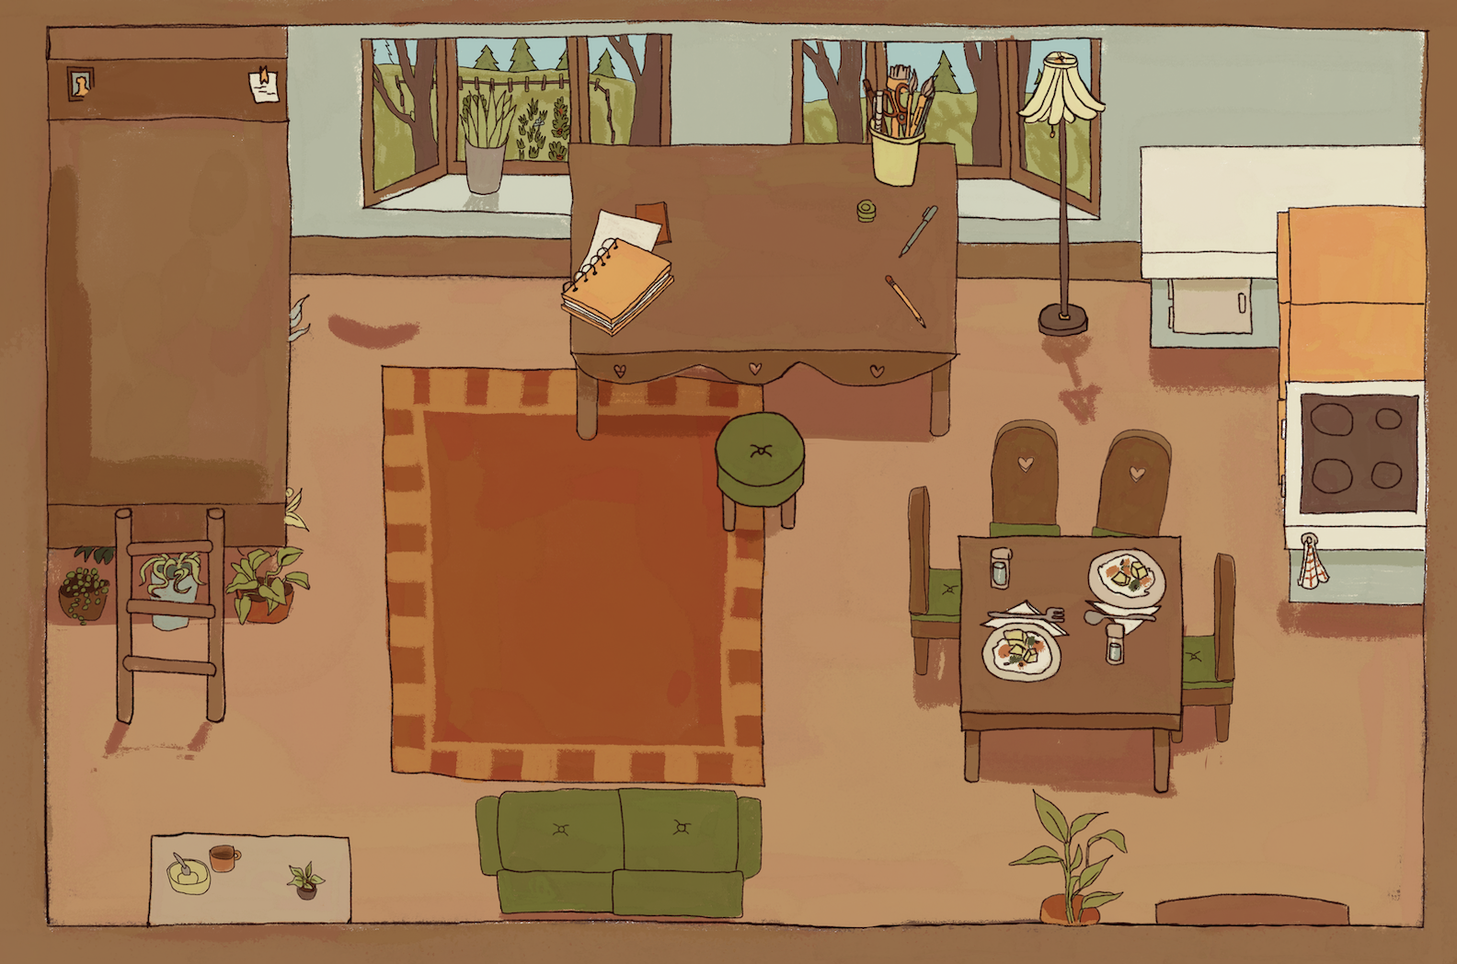
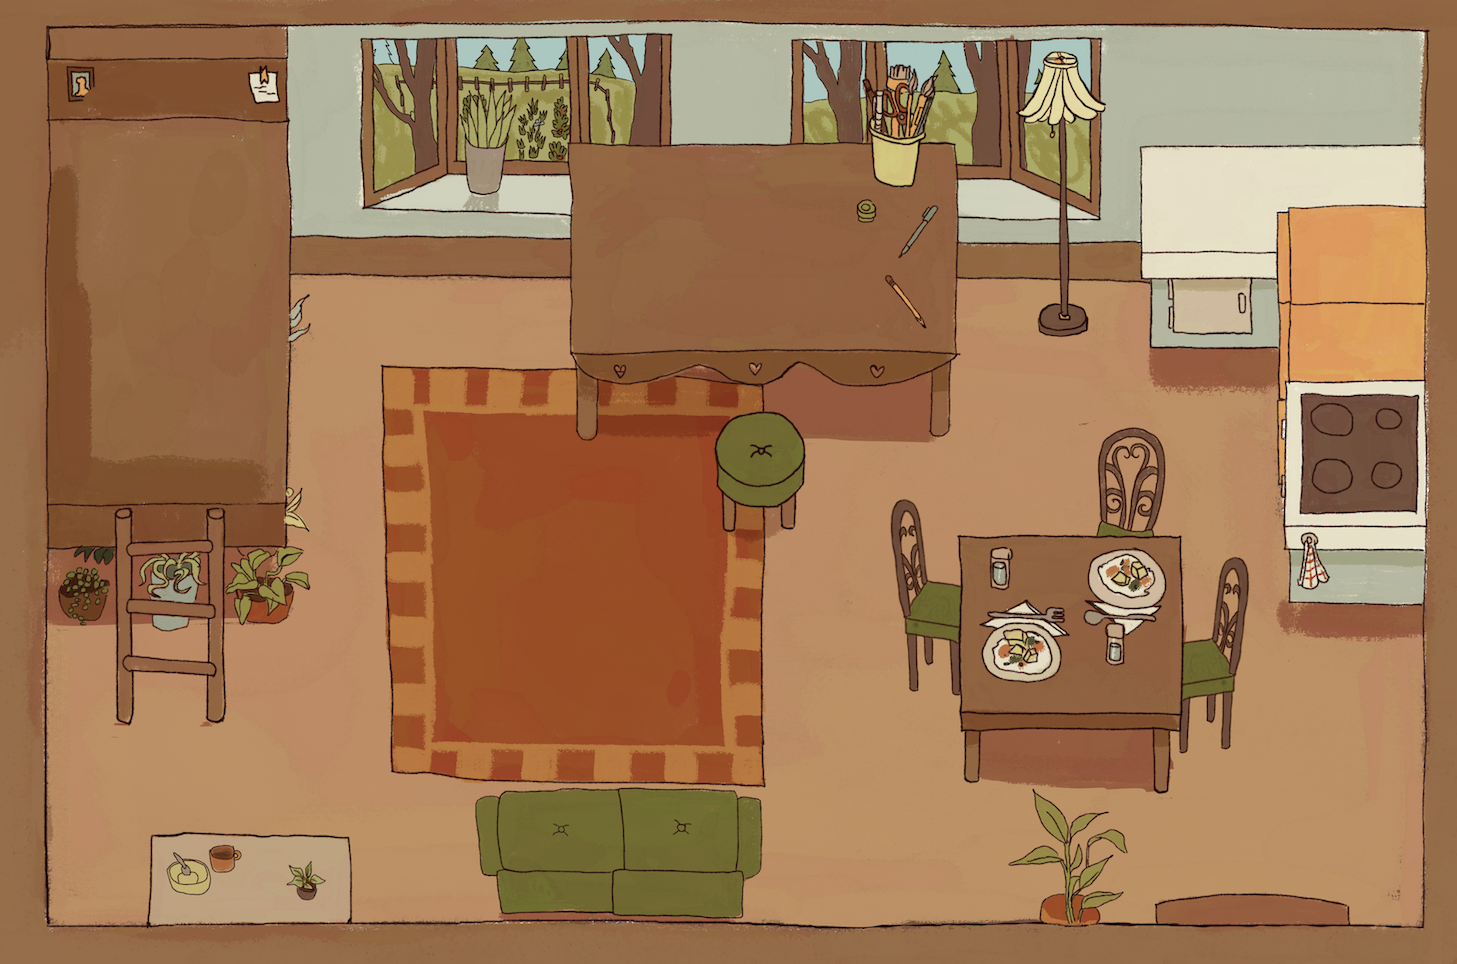
{LB} namesof wizard apps

diff --git a/sketch.js b/sketch.js
@@ -63,8 +63,8 @@ let images = {
                     // as clone stencils for spawned dollar bills.
                     hide: ["dollar_template1", "dollar_template2"],
                     children: [
-                      { id: "dollar_template1", path: "computer/dollar1.png", coordinates_by_percentage: [50, 50], scale: 0.22 },
-                      { id: "dollar_template2", path: "computer/dollar2.png", coordinates_by_percentage: [50, 50], scale: 0.25 },
+                      { id: "dollar_template1", path: "computer/dollar1.png", coordinates_by_percentage: [50, 50], scale: 0.242 },
+                      { id: "dollar_template2", path: "computer/dollar2.png", coordinates_by_percentage: [50, 50], scale: 0.275 },
                     ],
                   },
                 ],
@@ -510,7 +510,7 @@ function handleBankPressClick(bankHomeNode, x, y) {
 
   bankBalance += 1;
   const dollarTemplates = bankHomeNode.children.filter((c) => c.id.startsWith("dollar_template"));
-  openPath.push(spawnRandomPopup(bankHomeNode, dollarTemplates));
+  openPath.push(spawnRandomPopup(desktopNode, dollarTemplates));
   return true;
 }
 